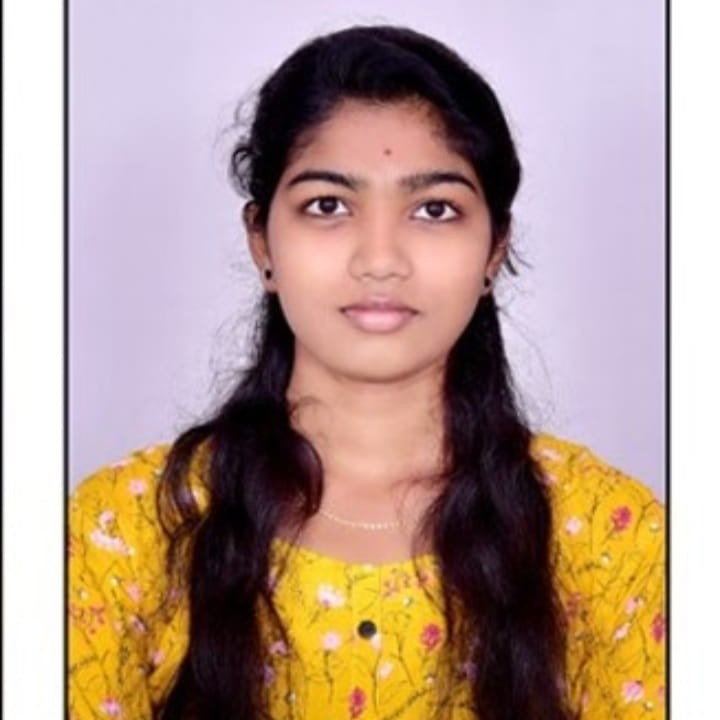
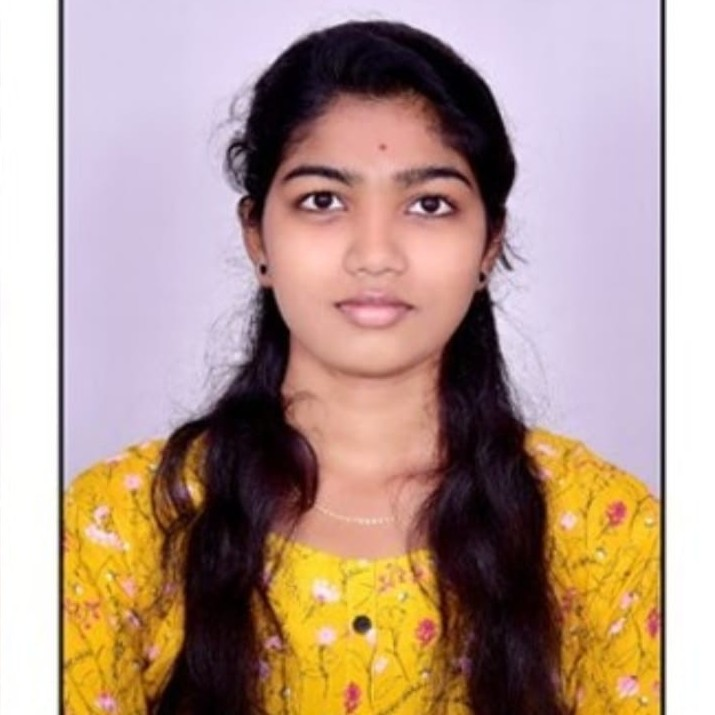
Refactor: Update styles and structure for improved layout and responsiveness across multiple components

diff --git a/src/pages/StaffDetailsPage.tsx b/src/pages/StaffDetailsPage.tsx
@@ -1,3 +1,4 @@
+import DepartmentSectionHeading from '../components/DepartmentSectionHeading/DepartmentSectionHeading';
 import StaffDetails from '../components/PlacementMenu/StaffDetails/StaffDetails';
 import VisitCampus from '../components/VisitCampus/VisitCampus';
 import { staffDetailsData } from '../data/placementMenu/staffDetails';
@@ -9,6 +10,31 @@ function StaffDetailsPage() {
       <main className="placement-menu-page">
         <StaffDetails data={staffDetailsData} />
       </main>
+      
+
+      <section className="placement-menu-page__contact">
+        <DepartmentSectionHeading title="CONTACT US FOR PLACEMENT :" className="department-section-heading--medium" />
+
+        <p className="placement-menu-page__contact-line" ><strong>Mrs. Shilpa Rajesh</strong></p>
+        <p className="placement-menu-page__contact-line">Manager – Training &amp; Placement</p>
+        <p className="placement-menu-page__contact-line">Career Development &amp; Corporate Affairs Centre</p>
+        <p className="placement-menu-page__contact-line">BGS Collegeof Engineering &amp; Technology</p>
+        <p className="placement-menu-page__contact-line">Mahalakshmipuram, Bengaluru,</p>
+        <p className="placement-menu-page__contact-line">Karnataka 560086. INDIA</p>
+        <p className="placement-menu-page__contact-line">
+          <strong>Mobile No</strong> : 9945773984
+        </p>
+        <p className="placement-menu-page__contact-line">
+          <strong>Email id</strong> :{' '}
+          <a href="mailto:hrd@bgscet.ac.in" className="placement-menu-page__contact-link" > hrd@bgscet.ac.in
+          </a>
+        </p>
+        <p className="placement-menu-page__contact-line">
+          <strong>Website</strong> :{' '}
+          <a href="https://bgscet.ac.in/" className="placement-menu-page__contact-link" target="_blank" rel="noreferrer" > https://bgscet.ac.in
+          </a>
+        </p>
+      </section>
       <VisitCampus />
     </>
   );

diff --git a/src/pages/PhysicalEducationSportsPage.css b/src/pages/PhysicalEducationSportsPage.css
@@ -61,7 +61,7 @@
   gap: 1.25rem;
   min-height: 0;
   overflow: hidden;
-  color: #4c4949;
+  color: var(--text);
   font-size: var(--font-size);
   line-height: 1.9;
 }
@@ -77,7 +77,7 @@
 }
 
 .physical-education__message-content .physical-education__tug-of-war {
-  height: 92.1%;
+  height: 98%;
   min-height: 0;
   overflow: hidden;
 }
@@ -88,7 +88,9 @@
   object-fit: cover;
    object-position: center ;
 }
-
+.physical-education__achievement{
+  margin-top: var(--primary-margin-top);
+}
 .physical-education__achievement > img {
   width: calc(100% + 8rem);
   max-width: none;
@@ -100,13 +102,14 @@
 .physical-education__recognitions {
   display: grid;
   grid-template-columns: repeat(2, minmax(0, 1fr));
+  column-gap: 0;
   margin-top: var(--primary-margin-top);
   border-bottom: 1px solid var(--dividing-line-color);;
   font-family: "Poppins", sans-serif;
 }
 
 .physical-education__recognitions article {
-  padding: 0 clamp(1.25rem, 3vw, 2.5rem) 2.5rem;
+  padding: 0 3rem 2.5rem 0;
   text-align: center;
 }
 
@@ -116,6 +119,8 @@
 
 .physical-education__recognitions article:nth-child(2) {
   border-left: 1px solid var(--dividing-line-color);;
+  padding:0 0rem 2.5rem 3rem;
+  text-align: center;
 }
 
 .physical-education__recognitions img { width: 100%; aspect-ratio: 4 / 3; object-fit: cover; }

diff --git a/src/components/ContactEnquiry/ContactEnquiry.tsx b/src/components/ContactEnquiry/ContactEnquiry.tsx
@@ -44,7 +44,7 @@ const ContactEnquiry = () => {
 
         <div className="visit-us">
             <div className="flex flex-direction-column visit-us__left">
-              <DepartmentSectionHeading title="Visit Us" /> {data.visit.address.map((line, index) => (  <p key={index} className="visit-us__address">  {line}  </p>  ))} <a href={`tel:${data.visit.contact.replace(/\s/g, "")}`} className="inline-flex-center visit-us__contact"> <span className="material-symbols-outlined">call</span>  {data.visit.contact}</a>
+              <DepartmentSectionHeading title="Visit Us" className="department-section-heading--medium"/> {data.visit.address.map((line, index) => (  <p key={index} className="visit-us__address">  {line}  </p>  ))} <a href={`tel:${data.visit.contact.replace(/\s/g, "")}`} className=" visit-us__contact"> <span className="material-symbols-outlined">call</span>  {data.visit.contact}</a>
             </div>
 
             <div className="visit-us__right">

diff --git a/src/pages/PlacementMenuPage.css b/src/pages/PlacementMenuPage.css
@@ -3,8 +3,38 @@
   padding: 0rem 4rem ;
 }
 
+.placement-menu-page__contact {
+  padding: var(--primary-padding);
+  margin-top: var(--primary-margin-top);
+}
+
+.placement-menu-page__contact-line,
+.placement-menu-page__contact-link {
+  margin: 0;
+  font-size: var(--font-size);
+  color: var(--text);
+  font-family: var(--career-font-family);
+  line-height: var(--line-height);
+}
+
+.placement-menu-page__contact-label {
+  font-weight: 600;
+}
+.placement-menu-page__contact-line strong {
+  font-weight: 600;
+}
+.placement-menu-page__contact-link {
+  text-decoration: none;
+}
+.placement-menu-page__contact-link:hover {
+  text-decoration: underline;
+}
 @media (max-width: 48rem) {
   .placement-menu-page {
     padding: 2rem 4rem 3rem;
+  }
+
+  .placement-menu-page__contact {
+    padding: 0 4rem 3rem;
   }
 }

diff --git a/src/components/ERCICA/ERCICA.tsx b/src/components/ERCICA/ERCICA.tsx
@@ -21,7 +21,7 @@ const ERCICA = () => {
         </section>
 
         <section className="ercica__section">
-          <DepartmentSectionHeading title={bestPaperAwardData.title} />
+          <DepartmentSectionHeading title={bestPaperAwardData.title} className="department-section-heading--medium"/>
 
           <div className="ercica__content flex flex-direction-column">
             {bestPaperAwardData.description.map((paragraph, index) => (

diff --git a/src/components/aboutcontent/GuruCard/GuruCard.css b/src/components/aboutcontent/GuruCard/GuruCard.css
@@ -52,7 +52,7 @@
   display: block;
   object-fit: cover;
   border-radius: var(--radius-lg);
-  box-shadow: var(--shadow-md);
+  /* box-shadow: var(--shadow-md); */
 }
 
 .guru-card__caption {

diff --git a/src/components/Advaya/Advaya.css b/src/components/Advaya/Advaya.css
@@ -23,7 +23,8 @@
 }
 
 .advaya__files li {
-  margin-bottom: 0.75rem;
+  margin-bottom: 0.35rem;
+  font-size: var(--font-size);
 }
 
 .advaya__file {
